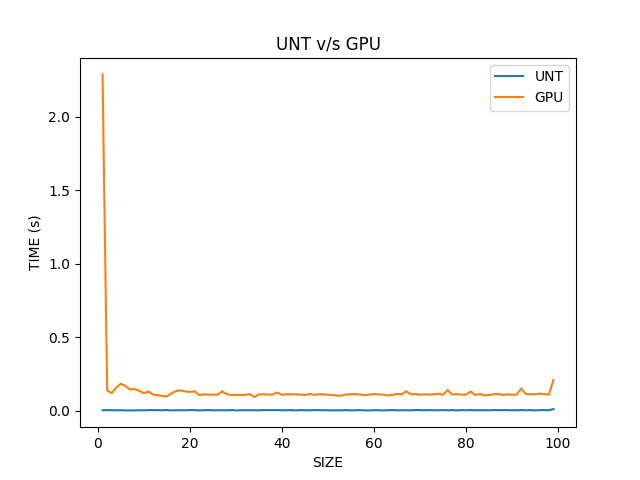
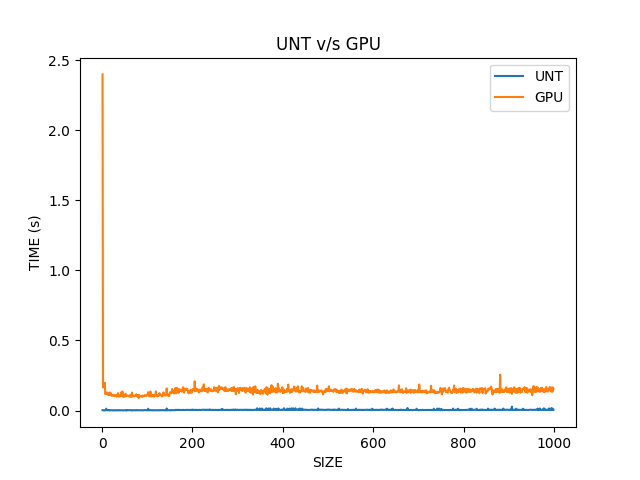
UNT vs GPU [float]

diff --git a/SDK/examples/unt_vs_gpu_float.cpp b/SDK/examples/unt_vs_gpu_float.cpp
@@ -1,0 +1,129 @@
+/*
+            copyright (c) 2012-2017 Oscar Riveros. all rights reserved.
+                                oscar.riveros@peqnp.com
+
+        without any restriction, Oscar Riveros reserved rights, patents and
+        commercialization of this knowledge or derived directly from this work.
+
+    http://twitter.com/maxtuno
+    http://klout.com/maxtuno
+    http://independent.academia.edu/oarr
+
+    https://www.academia.edu/31770840/Elements_Of_Universal_Number_Theory
+    https://github.com/maxtuno/UNT_Book
+*/
+
+#include <ctime>
+#include <algorithm>
+#include <random>
+
+#include <boost/compute/algorithm/copy.hpp>
+#include <boost/compute/algorithm/transform.hpp>
+#include <boost/compute/container/vector.hpp>
+
+namespace compute = boost::compute;
+
+#include "peqnp/unt.hpp"
+
+inline void print(std::vector<float> binary) {
+    std::cout << "[";
+    std::for_each(binary.begin(), binary.end(),
+                  [&](auto bits) {
+                      std::cout << bits << ", ";
+                  });
+    std::cout << "]" << std::endl;
+}
+
+inline void print(std::vector<integer> binary, float epsilon = 1.0) {
+    std::cout << "[";
+    std::for_each(binary.begin(), binary.end(),
+                  [&](auto bits) {
+                      std::cout << integer(bits).convert_to<float>() / epsilon << ", ";
+                  });
+    std::cout << "]" << std::endl;
+}
+
+template<typename U, typename V>
+inline void compare(std::vector<U> uu, std::vector<V> vv, size_t size, float epsilon = 1.0) {
+    for (size_t idx = 0; idx < size; idx++) {
+        if (integer(uu[idx]).convert_to<float>() - vv[idx] * epsilon > 1.0 / epsilon) {
+            std::cout << "\nP != NP\n" << std::endl;
+            std::exit(EXIT_FAILURE);
+        }
+    }
+}
+
+int main(int argc, char *argv[]) {
+
+    size_t bits = 31;
+
+    std::ofstream data_unt("size_vs_unt.txt");
+    std::ofstream data_gpu("size_vs_gpu.txt");
+
+    float epsilon = static_cast<float>(1 << (bits - 1));
+
+    for (size_t size = 1; size < std::atoi(argv[1]); size++) {
+
+        unt::matrix uu(bits, size, 1);
+        unt::matrix vv(bits, size, 1);
+
+        std::random_device rd;
+        std::mt19937 eng(rd());
+        std::uniform_real_distribution<float> ds(0, 1);
+
+        compute::vector<float> vector_a;
+        compute::vector<float> vector_b;
+
+        for (size_t idx = 0; idx < size; idx++) {
+            float a = ds(eng);
+            float b = ds(eng);
+
+            uu.insert(idx, integer(a * epsilon));
+            vv.insert(idx, integer(b * epsilon));
+
+            vector_a.push_back(a);
+            vector_b.push_back(b);
+        }
+
+        compute::vector<float> vector_c(size);
+
+        std::cout << "\nVECTORS:" << std::endl;
+        print(uu.to_classical_mathematics(), epsilon);
+        print(vv.to_classical_mathematics(), epsilon);
+
+        auto ini_unt = std::clock();
+        uu += vv;
+        auto end_unt = std::clock();
+        auto unt_time = (end_unt - ini_unt) / static_cast<float>(CLOCKS_PER_SEC) * 1000;
+
+        std::cout << "\nUNIVERSAL NUMBER THEORY" << std::endl;
+        print(uu.to_classical_mathematics(), epsilon);
+
+        auto ini_gpu = std::clock();
+        compute::transform(
+                vector_a.begin(),
+                vector_a.end(),
+                vector_b.begin(),
+                vector_c.begin(),
+                compute::plus<float>()
+        );
+        auto end_gpu = std::clock();
+        auto gpu_time = (end_gpu - ini_gpu) / static_cast<float>(CLOCKS_PER_SEC) * 1000;
+
+        std::vector<float> gpu_vector;
+        compute::copy(vector_c.begin(), vector_c.end(), std::back_inserter(gpu_vector));
+
+        std::cout << "\nGPU" << std::endl;
+        print(gpu_vector);
+
+        data_unt << size << " " << unt_time << std::endl;
+        data_gpu << size << " " << gpu_time << std::endl;
+
+        compare<integer, float>(uu.to_classical_mathematics(), gpu_vector, size, epsilon);
+
+        std::cout << "\nUNT " << gpu_time / unt_time << "X FASTER THAT THE GPU" << std::endl;
+
+    }
+
+    return EXIT_SUCCESS;
+}
